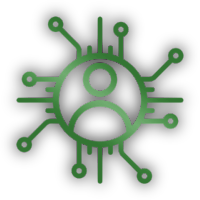
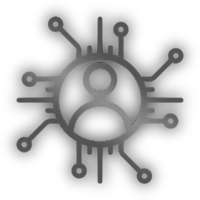
mudando design

Changed region(s): [[0.09, 0.06, 0.93, 0.93]]

diff --git a/assets/css/styles.css b/assets/css/styles.css
@@ -1,6 +1,6 @@
   a {
     text-decoration:none;
-    color:#285d33;
+    color:#4388b9;
   }
   * {
     font-family: Arial, Helvetica, sans-serif;
@@ -21,7 +21,7 @@
     height:20px;
     border-radius:100%;
     color:black;
-    background-color: #285d33 ;
+    background-color: #4388b9 ;
     align-items: center;
     display: flex;
   }
@@ -68,7 +68,7 @@
   }
 
   .send:hover {
-    background-color:#285d33;
+    background-color:#4388b9;
   }
 
   .login, .singUP {
@@ -107,11 +107,11 @@
     background-position-y:5px;
     background-position-x:5px;
     border-radius:20px;
-    border:solid 2px #285d33;
+    border:solid 2px #4388b9;
     font-weight: bolder;
     background-image: url("../../Images/search.png");
     background-repeat: no-repeat;
-    background-color:#285d33;
+    background-color:#4388b9;
   }
 
 
@@ -126,7 +126,7 @@
     background-position-y:5px;
     background-position-x:12px;
     border-radius:20px;
-    border:solid 2px #285d33;
+    border:solid 2px #4388b9;
     font-weight: bolder;
     box-shadow: 0px 0px 10px 5px rgb(0 0 0 / 20%);  
   }
@@ -186,7 +186,7 @@
   }
 
   .inputSubmit:hover {
-    background:#285d33;
+    background:#4388b9;
   }
 
   .singUp {
@@ -200,7 +200,7 @@
     height:18px;
   }
   .contacts, .messages, .text, .msg{
-      border: 3px solid #285d33;
+      border: 3px solid #4388b9;
   }
 
   .send {
@@ -219,7 +219,7 @@
 
   .profilePic {
     background:none;
-    border:solid 3px #285d33;
+    border:solid 3px #4388b9;
     border-radius:100%;
     width:150px;
     height:150px;
@@ -241,7 +241,7 @@
   }
 
   ::-webkit-scrollbar-thumb:hover {
-    background:#285d33;
+    background:#4388b9;
   }   
 
   ::-webkit-scrollbar-thumb {
@@ -256,14 +256,14 @@
   }
 
   ::-webkit-input-placeholder{
-    color: #285d33;
+    color: #4388b9;
     font-weight: bold;
   }
       
   .menu ul {
     position: relative;
     width: 100px;
-    border: 3px solid #285d33;
+    border: 3px solid #4388b9;
     background:  rgb(15, 21, 15,0.5);
     backdrop-filter: blur(12px);
     padding:0px;
@@ -295,7 +295,7 @@
 
 
   .menu ul li:hover {
-    background: #285d33;
+    background: #4388b9;
     color:black;
   } 
 
@@ -306,14 +306,14 @@
     top:0px;
     display:inline-table;
     backdrop-filter: blur(12px);
-    border: 3px solid #285d33;
+    border: 3px solid #4388b9;
     border-radius: 10px;
     min-height:188px;
     box-shadow: 0px 0px 10px 5px rgb(0 0 0 / 20%); 
   }
 
   .document img {
-    border: 3px solid #285d33;
+    border: 3px solid #4388b9;
     background-image: url("");
     background-size: 100vw auto;
     background-position-x:50%;
@@ -336,7 +336,7 @@
     font-size:18px;
     border: none;
     background: none;
-    border: 3px solid #285d33;
+    border: 3px solid #4388b9;
     border-radius:10px;
     width:120px;
     box-shadow: 0px 0px 10px 5px rgb(0 0 0 / 20%);  
@@ -348,5 +348,16 @@
   }
 
   .container {
-    background: linear-gradient(#005a3c , #0a3100);
+    background: linear-gradient(#2b5278 , #0e1621);
+    background-image: url("../../Images/back.png");
+    background-size: 100%;
+  }
+  
+  .statusMsg h3 {
+    border: 3px solid #4388b9;
+    background:#1a3749;
+    border-radius: 40px;
+    max-width:200px;
+    padding:5px;
+    box-shadow: 0px 0px 10px 5px rgb(0 0 0 / 20%);  
   }

diff --git a/editProfile.php b/editProfile.php
@@ -7,17 +7,6 @@
 <link rel="stylesheet" href="assets/css/styleNoIndex.css">
 </head>     
 <style id="stylePic">
-    .profilePic {
-        background:none;
-        border:solid 3px #285d33;
-        border-radius:100%;
-        width:150px;
-        height:150px;
-        background-image: url("Images/profileMedium.png");
-        background-size: 100vw auto;
-        background-position-x:50%;
-        background-size: cover;   
-    }
     .salvar, .editPic{
         display:none;
     }
@@ -70,10 +59,10 @@
 <a href="editPassword.php" class="editPass"><img src="Images/passwordMediumIcon-dark.png"></a>
 <?php
     if (!empty($_GET['error'])) {
-        echo "<center><h3 style=\"color:red;\">".$_GET['error']."</h3></center>";
+        echo "<center class='statusMsg'><h3 style=\"color:red;\">".$_GET['error']."</h3></center>";
     }
     if (!empty($_GET['message'])) {
-        echo "<center><h3 style=\"color:green;\">".$_GET['message']."</h3></center>";
+        echo "<center class='statusMsg'><h3 style=\"color:green;\">".$_GET['message']."</h3></center>";
     }
 ?>
 </center>   

diff --git a/Controller/AutenticateController.php b/Controller/AutenticateController.php
@@ -14,7 +14,7 @@
                 header("Location: index.php");
                 die();   
             } else {
-                echo "<center><h3 style=\"color:red;\"> nickname ou senha incorreta </h3></center>";
+                echo "<center class='statusMsg'><h3 style=\"color:red;\"> nickname ou senha incorreta </h3></center>";
             }
         }
 
@@ -37,7 +37,7 @@
                     $this->login(new StringT($nick),$pass);
                 } 
             } else {
-                $error = "<center><h3 style=\"color:red;\">";
+                $error = "<center class='statusMsg'><h3 style=\"color:red;\">";
                 $error.=$nameCertification[1];
                 $error.=$nickCertification[1];
                 $error.=$passCertification[1];

diff --git a/editPassword.php b/editPassword.php
@@ -58,10 +58,10 @@
 <a href="editProfile.php" class="editPro"><img src="Images/nameMediumIcon-dark.png"></a>
 <?php
     if (!empty($_GET['error'])) {
-        echo "<center><h3 style=\"color:red;\">".$_GET['error']."</h3></center>";
+        echo "<center class='statusMsg'><h3 style=\"color:red;\">".$_GET['error']."</h3></center>";
     }
     if (!empty($_GET['message'])) {
-        echo "<center><h3 style=\"color:green;\">".$_GET['message']."</h3></center>";
+        echo "<center class='statusMsg'><h3 style=\"color:green;\">".$_GET['message']."</h3></center>";
     }
 ?>
 </center>   
